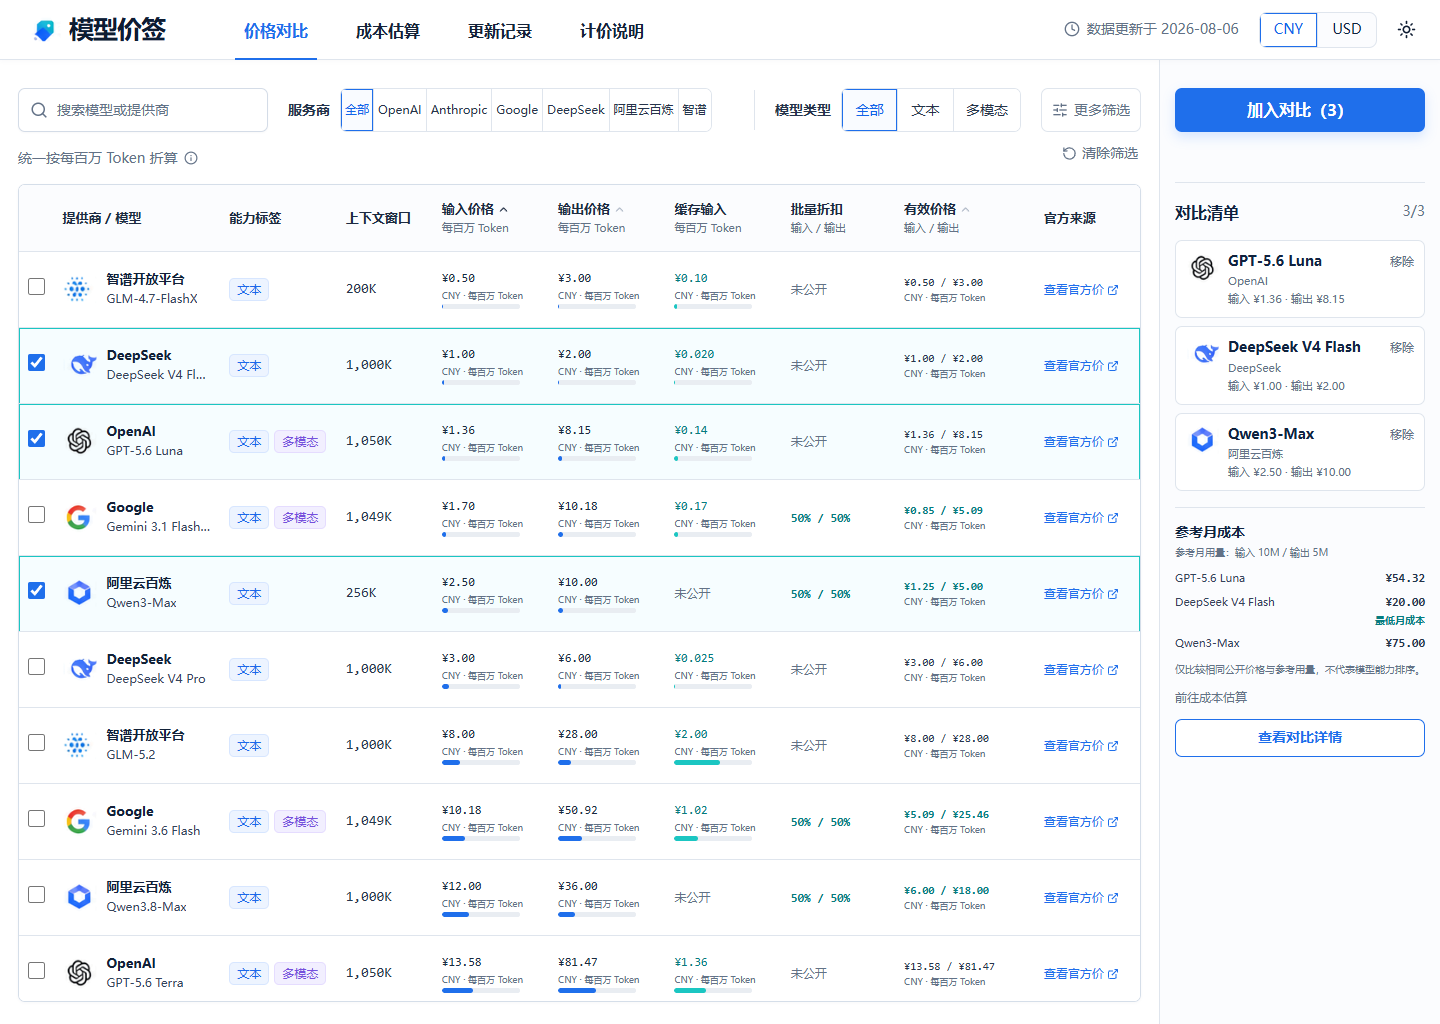
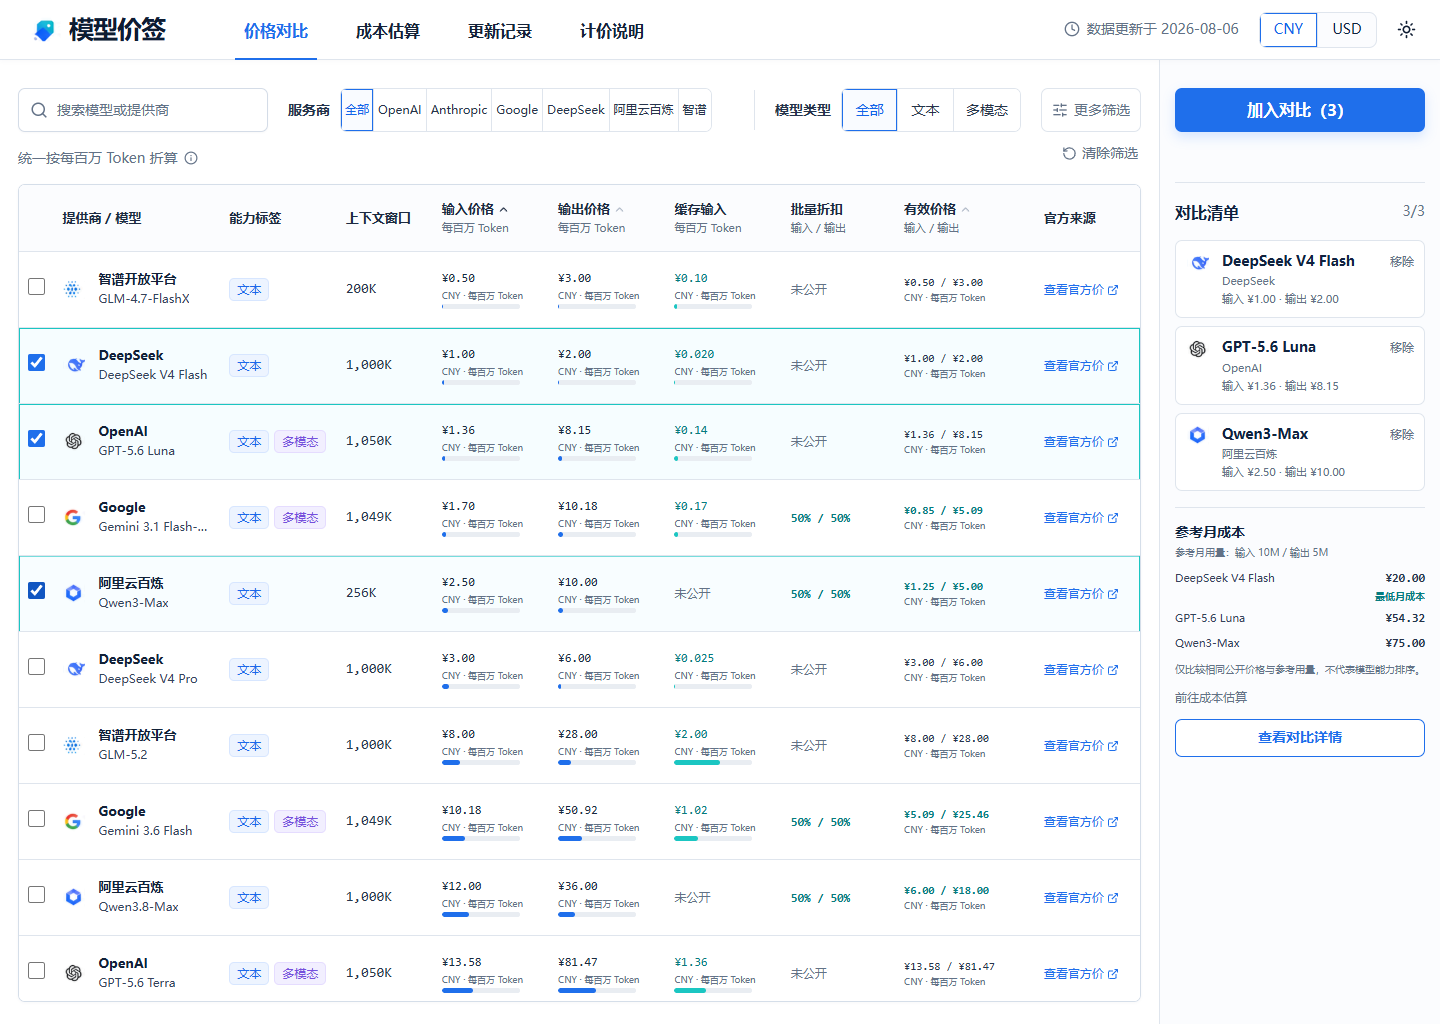
fix: improve focus contrast and QA evidence

diff --git a/site/src/styles.css b/site/src/styles.css
@@ -43,7 +43,7 @@ input:focus-visible,
 select:focus-visible,
 summary:focus-visible,
 a:focus-visible {
-  outline: 3px solid color-mix(in srgb, var(--primary) 30%, transparent);
+  outline: 3px solid var(--primary);
   outline-offset: 2px;
 }
 
@@ -269,7 +269,7 @@ a:focus-visible {
   background: white;
   border: 1px solid var(--line);
   border-radius: 7px;
-  grid-template-columns: 34px minmax(0, 1fr) auto;
+  grid-template-columns: 28px minmax(0, 1fr) auto;
   gap: 8px;
 }
 
@@ -292,8 +292,8 @@ a:focus-visible {
 }
 
 .comparison-selection-list .provider-logo {
-  width: 34px;
-  height: 34px;
+  width: 24px;
+  height: 24px;
 }
 
 .comparison-selection-list button,
@@ -780,7 +780,7 @@ a:focus-visible {
 
 .segment-option:has(input:focus-visible) {
   z-index: 2;
-  outline: 3px solid color-mix(in srgb, var(--primary) 45%, transparent);
+  outline: 3px solid var(--primary);
   outline-offset: -3px;
 }
 
@@ -973,14 +973,14 @@ a:focus-visible {
 .model-identity {
   display: grid;
   align-items: center;
-  grid-template-columns: 36px minmax(0, 1fr);
+  grid-template-columns: 28px minmax(0, 1fr);
   gap: 8px;
 }
 
 .provider-logo {
   display: block;
-  width: 36px;
-  height: 36px;
+  width: 24px;
+  height: 24px;
   flex: 0 0 auto;
   object-fit: contain;
   user-select: none;

diff --git a/site/tests/visualTokens.test.js b/site/tests/visualTokens.test.js
@@ -1,0 +1,28 @@
+import { readFileSync } from "node:fs";
+import { resolve } from "node:path";
+import { describe, expect, it } from "vitest";
+
+const styles = readFileSync(resolve(process.cwd(), "src/styles.css"), "utf8");
+
+describe("关键视觉 Token", () => {
+  it("为通用控件和分段选项提供不透明的 3px 主色焦点环", () => {
+    expect(styles).toMatch(
+      /button:focus-visible,[\s\S]*?a:focus-visible\s*\{[^}]*outline:\s*3px solid var\(--primary\)/,
+    );
+    expect(styles).toMatch(
+      /\.segment-option:has\(input:focus-visible\)\s*\{[^}]*outline:\s*3px solid var\(--primary\)/,
+    );
+  });
+
+  it("将服务商 Logo 以 24px 框展示，并保留独立文本列", () => {
+    expect(styles).toMatch(
+      /(?:^|\n)\.provider-logo\s*\{[^}]*width:\s*24px;[^}]*height:\s*24px;/,
+    );
+    expect(styles).toMatch(
+      /\.model-identity\s*\{[^}]*grid-template-columns:\s*28px minmax\(0, 1fr\);/,
+    );
+    expect(styles).toMatch(
+      /\.comparison-selection-list \.provider-logo\s*\{[^}]*width:\s*24px;[^}]*height:\s*24px;/,
+    );
+  });
+});

diff --git a/design-qa.md b/design-qa.md
@@ -1,21 +1,21 @@
 # 设计 QA
 
-- source visual truth path: `C:\Users\180841\.codex\generated_images\019fd511-05ba-7fd3-b298-2c9eb726f6f7\exec-e55e71a9-125a-4e87-82ab-aae187bb5ed7.png`
-- implementation screenshot path: `D:\AI\Projects\llm-price\site\design\qa-desktop.png`
+- source visual truth path: `site/design/reference-option-1.png`
+- implementation screenshot path: `site/design/qa-desktop.png`
 - viewport: `1440 × 1024` CSS px
 - source pixels: `1487 × 1058`，按相同比例归一化为 `1440 × 1024`
 - implementation pixels: `1440 × 1024`
 - deviceScaleFactor: `1`
 - state: 价格对比、CNY、已选 3 个模型
-- full-view comparison evidence: `C:\Users\180841\AppData\Local\Temp\llm-price-design-qa-pass2.png`
-- focused region comparison evidence: `C:\Users\180841\AppData\Local\Temp\llm-price-design-qa-focused-pass2.png`
+- full-view comparison evidence: `site/design/qa-comparison-desktop.png`（左侧为归一化参考图，右侧为实现图，`2882 × 1024`）
+- focused region comparison evidence: `site/design/qa-comparison-focused.png`（左右同序，聚焦首屏上方 `680px` 的导航、筛选、Logo、表头和对比栏）
 
 ## 必查表面
 
 - 字体与排版：字号、行高和数字等宽风格接近参考；实现中的模型名略粗，归类为可接受的 P3 光学差异。
 - 间距与布局节奏：桌面顶部、筛选行、主表与 280px 右栏结构匹配；对比栏已补齐参考月成本摘要，不再出现主要区域空置。
-- 颜色与视觉 Token：白底、蓝色主操作、青色价格/选中态、浅灰边框与参考一致，未发现阻塞性对比度问题。
-- 图像质量与资产保真：已从参考图提取透明产品标识与六个服务商 Logo，在桌面表格、移动摘要卡片和对比清单中复用；未再使用字母方块或通用图标替代。
+- 颜色与视觉 Token：白底、蓝色主操作、青色价格/选中态、浅灰边框与参考一致；键盘焦点环使用不透明 `#1f6feb` 3px 描边，对白色和选中浅底的对比度分别为 `4.634:1` 与 `4.473:1`，高于非文本焦点指示所需的 `3:1`。
+- 图像质量与资产保真：已从参考图提取透明产品标识与六个服务商 Logo，在桌面表格、移动摘要卡片和对比清单中复用；Logo 展示框从 36px 收敛到参考设计接近的 24px，40–46px 位图保持接近 2x 密度，未出现裁切或加载失败。
 - 文案与内容：主要导航、筛选、价格表、对比清单及参考月成本文案完整；实现明确标注参考用量，避免把价格优势解释为能力优势。
 
 ## 发现
@@ -30,7 +30,7 @@
 
 - 先前发现：服务商 Logo 资产不匹配、右栏月成本摘要缺失、产品标识不匹配。
 - 已完成修复：提取并接入产品/服务商透明位图；新增 10M 输入、5M 输出的逐模型参考月成本与最低月成本文字；保留成本估算和详情入口。
-- 修复后证据：`C:\Users\180841\AppData\Local\Temp\llm-price-design-qa-pass2.png` 与 `C:\Users\180841\AppData\Local\Temp\llm-price-design-qa-focused-pass2.png`。
+- 修复后证据：已重新生成到项目内的 `site/design/qa-comparison-desktop.png` 与 `site/design/qa-comparison-focused.png`。
 
 ### Pass 2
 
@@ -39,10 +39,18 @@
 - 移动：`390 × 844` 摘要卡片使用真实 Logo；筛选通过全屏抽屉打开；底部对比入口不覆盖列表内容；无页面级横向滚动。
 - 字体、间距、颜色、图像质量和文案五个必查表面均已完成复查。
 
+### Pass 3（最终复核）
+
+- 先前发现：通用控件及分段选项的半透明焦点环低于 `3:1`；服务商 Logo 的 36px 展示密度高于参考图约 24px；Pass 2 同图证据位于临时目录，无法随项目交付。
+- 已完成修复：焦点环改为不透明 3px `var(--primary)`；Logo 统一收敛为 24px、模型身份列调整为 28px；参考图及 full/focused 同图对照全部保存到 `site/design/`。
+- 修复后证据：`site/design/qa-comparison-desktop.png` 与 `site/design/qa-comparison-focused.png`；桌面和移动实现分别见 `site/design/qa-desktop.png`、`site/design/qa-mobile.png`。
+- 复查结果：1440、1024、390 三视口无横向溢出，24px Logo 无裁切，移动卡片与固定 CTA 无重叠；焦点环计算样式为不透明主色、solid、3px。
+
 ## 实施清单
 
 1. 已替换产品与服务商视觉资产。
 2. 已为桌面对比栏补齐紧凑参考月成本摘要。
 3. 已重新捕获 `1440 × 1024` 与 `390 × 844`，并复查字体、间距、颜色、图像与文案。
+4. 已修正键盘焦点对比度和 Logo 密度，并将 Pass 2/3 同图证据迁入项目目录。
 
 final result: passed
